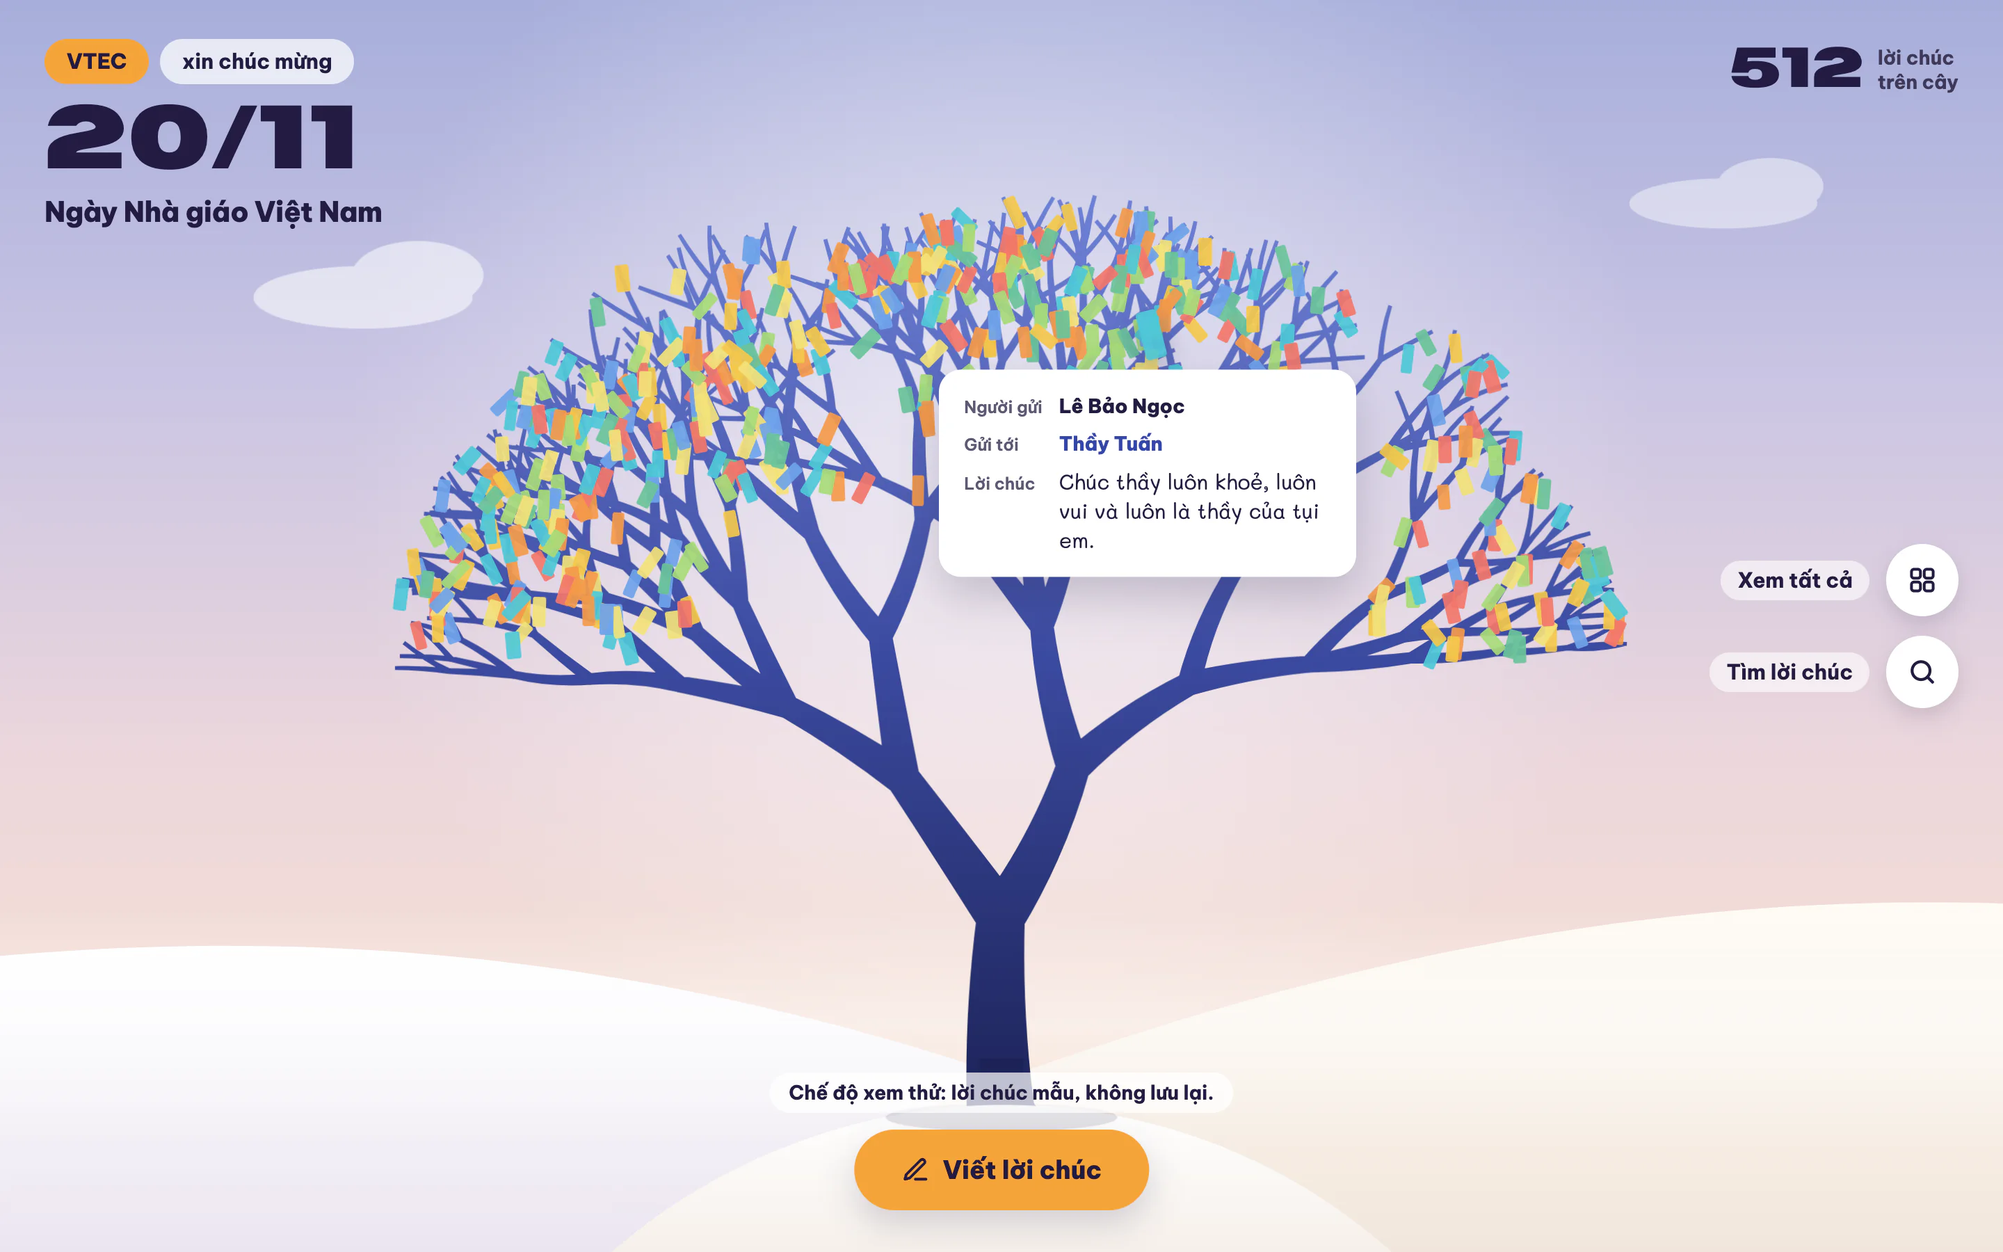
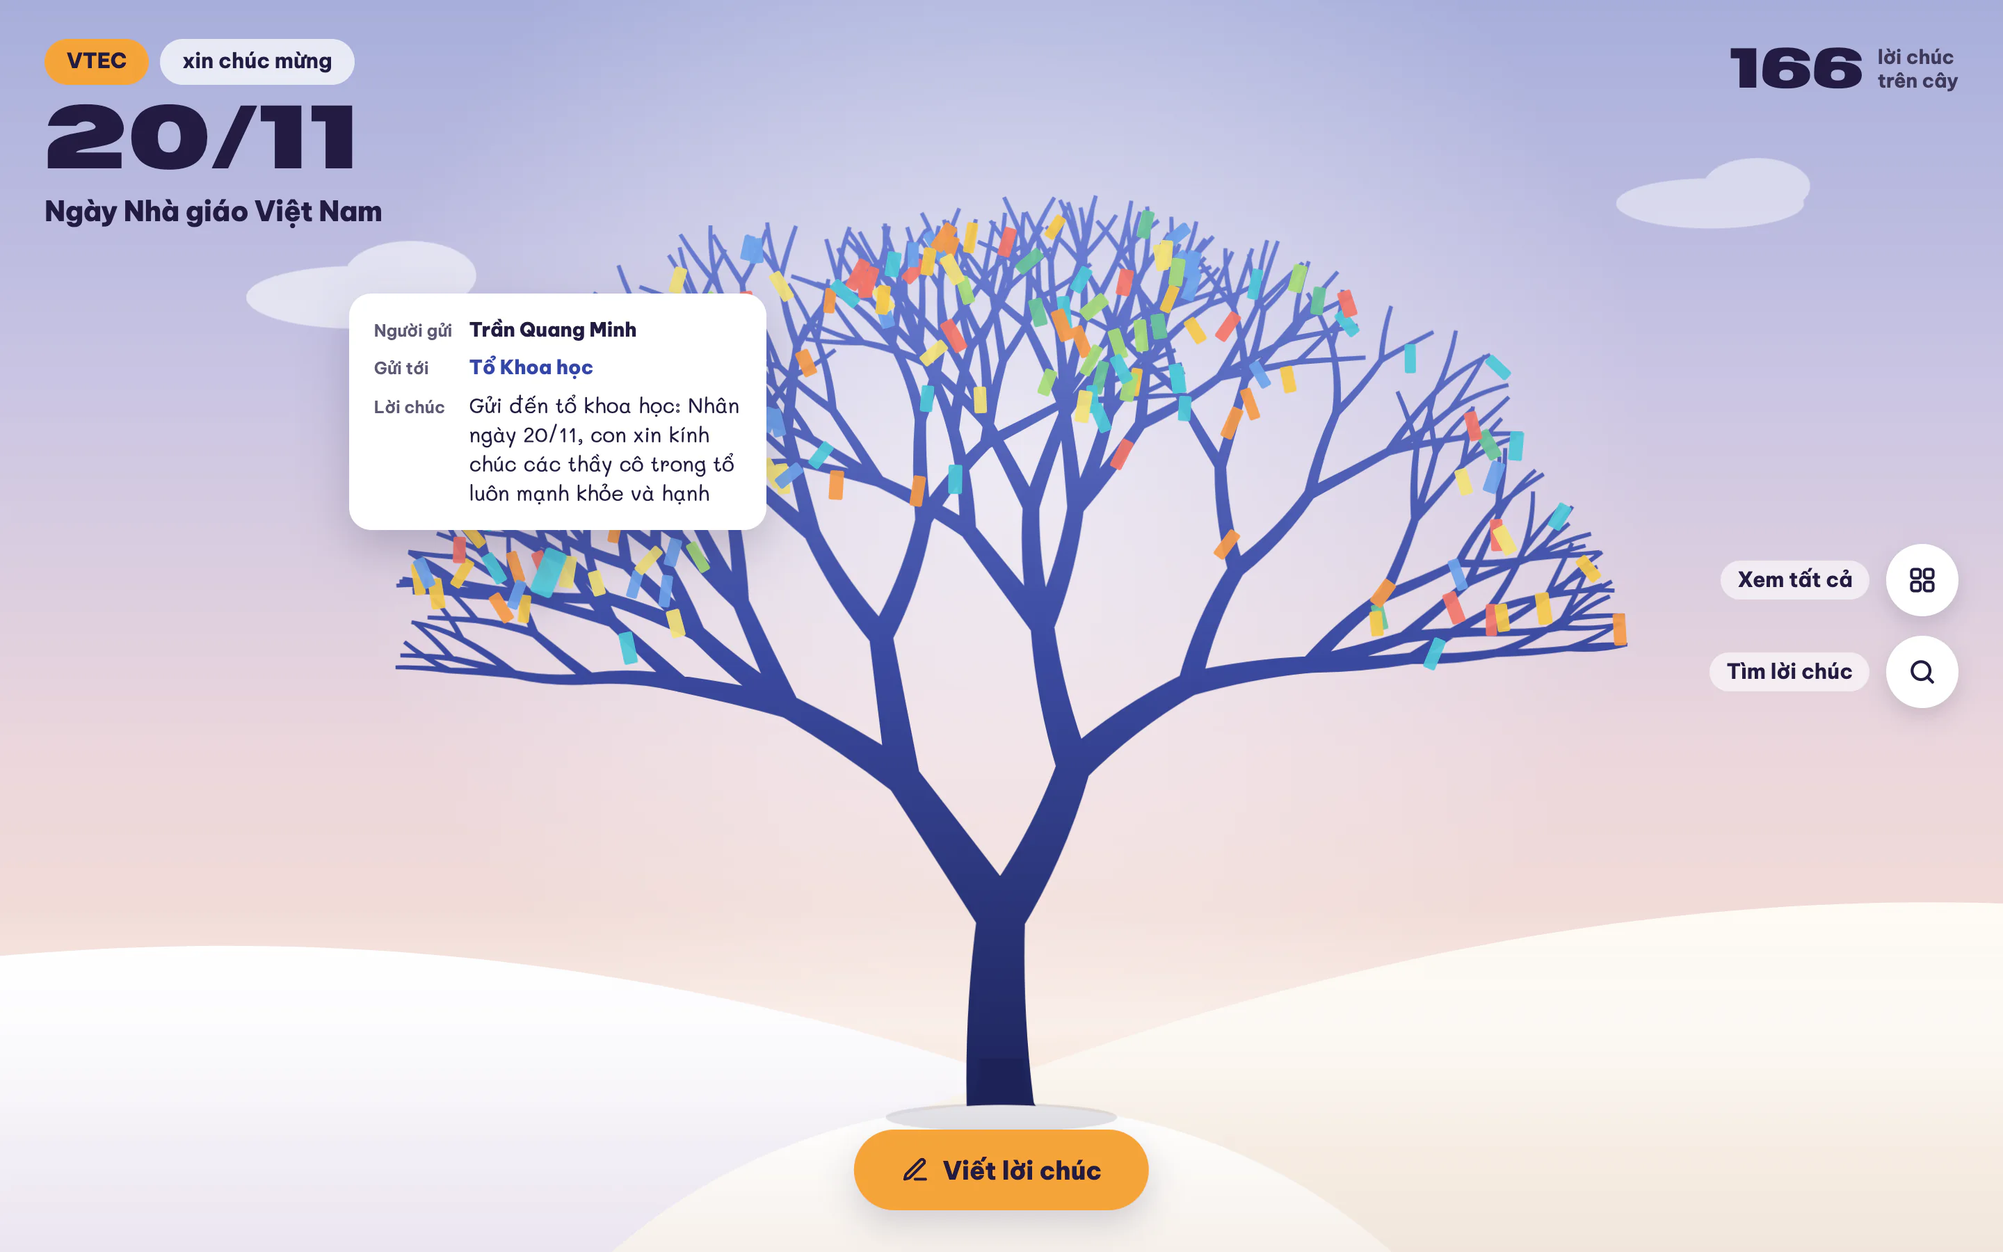
Show the live wishing tree at vtec.codes and tell how Lunch started

diff --git a/works/teacher-day/index.html b/works/teacher-day/index.html
@@ -55,16 +55,16 @@
     <p class="project-tagline intro" style="--delay: 0.35s">A wishing tree for Vietnamese Teachers' Day: students write kind words to their teachers and hang them on the tree.</p>
     <div class="intro" style="--delay: 0.45s"><ul class="tags"><li>Vue</li><li>Firebase</li><li>GSAP</li></ul></div>
   </header>
-  <figure class="project-cover"><div class="cover cover--browser cover--lilac" role="img" aria-label="The Teacher Day wishing tree with notes hanging from its branches" style="view-transition-name: cover-teacher-day">
-  <div class="browser" style="--bar: #a8afdb; --page-w: 1356" data-depth="0.5">
+  <figure class="project-cover"><div class="cover cover--browser cover--lilac" role="img" aria-label="The Teacher Day wishing tree with 166 wishes hanging from its branches" style="view-transition-name: cover-teacher-day">
+  <div class="browser" style="--bar: #a7aedb; --page-w: 1440" data-depth="0.5">
     <div class="safari-bar" aria-hidden="true">
       <span class="traffic"><i></i><i></i><i></i></span>
       <span class="sf sf--sidebar"><svg viewBox="0 0 20 16"><rect x="1" y="1.5" width="18" height="13" rx="3"/><path d="M7.5 1.5v13M3.4 4.6h2M3.4 7h2M3.4 9.4h2"/></svg></span>
       <span class="sf sf--nav"><svg viewBox="0 0 12 16"><path d="M8.5 2.5 3 8l5.5 5.5"/></svg><svg viewBox="0 0 12 16"><path d="M3.5 2.5 9 8l-5.5 5.5"/></svg></span>
-      <span class="safari-url"><span>vtec-teacher-day.web.app</span><svg viewBox="0 0 16 16"><path d="M13 8a5 5 0 1 1-1.6-3.7"/><path d="M11.8 1.6v3h-3"/></svg></span>
+      <span class="safari-url"><span>vtec.codes</span><svg viewBox="0 0 16 16"><path d="M13 8a5 5 0 1 1-1.6-3.7"/><path d="M11.8 1.6v3h-3"/></svg></span>
       <span class="sf sf--right"><svg viewBox="0 0 16 18"><path d="M8 11V1.8M4.8 4.8 8 1.6l3.2 3.2"/><path d="M5.2 7.5H3.8a1.8 1.8 0 0 0-1.8 1.8v5.4a1.8 1.8 0 0 0 1.8 1.8h8.4a1.8 1.8 0 0 0 1.8-1.8V9.3a1.8 1.8 0 0 0-1.8-1.8h-1.4"/></svg><svg viewBox="0 0 16 16"><path d="M8 2v12M2 8h12"/></svg><svg viewBox="0 0 18 16"><rect x="1.5" y="4.5" width="11" height="10" rx="2.2"/><path d="M5 2.2h8.3a2.2 2.2 0 0 1 2.2 2.2v7.4"/></svg></span>
     </div>
-    <img src="/assets/img/projects/teacher-day.webp" alt="" width="1356" height="845" fetchpriority="high" decoding="async">
+    <img src="/assets/img/projects/teacher-day.webp" alt="" width="1440" height="900" fetchpriority="high" decoding="async">
   </div>
 </div></figure>
   <div class="project-body">
@@ -76,7 +76,7 @@
         <div><dt>Status</dt><dd>Live</dd></div>
       </dl>
       <div class="project-links">
-        <a class="btn btn--orange" href="https://vtec-teacher-day.web.app" target="_blank" rel="noopener" data-magnetic>Open the wishing tree <svg class="arrow arrow--ext" viewBox="0 0 16 16" aria-hidden="true"><path d="M5 11 11 5M6 5h5v5" fill="none" stroke="currentColor" stroke-width="1.6" stroke-linecap="round" stroke-linejoin="round"/></svg></a>
+        <a class="btn btn--orange" href="https://vtec.codes" target="_blank" rel="noopener" data-magnetic>Open the wishing tree <svg class="arrow arrow--ext" viewBox="0 0 16 16" aria-hidden="true"><path d="M5 11 11 5M6 5h5v5" fill="none" stroke="currentColor" stroke-width="1.6" stroke-linecap="round" stroke-linejoin="round"/></svg></a>
         <a class="btn btn--ghost" href="https://github.com/KernelxD/Teacher-Day" target="_blank" rel="noopener" data-magnetic>View on GitHub <svg class="arrow arrow--ext" viewBox="0 0 16 16" aria-hidden="true"><path d="M5 11 11 5M6 5h5v5" fill="none" stroke="currentColor" stroke-width="1.6" stroke-linecap="round" stroke-linejoin="round"/></svg></a>
       </div>
     </aside>
@@ -90,7 +90,7 @@
   <section class="screens" aria-labelledby="screens-title">
   <div class="screens-head">
     <h2 id="screens-title" class="section-title" data-split>See it in action</h2>
-    <p class="section-lede" data-reveal>The tree shots use the site's demo mode, which fills it with 512 sample wishes.</p>
+    <p class="section-lede" data-reveal>Taken from the live tree on Teachers' Day, with the wishes students actually wrote.</p>
   </div>
   <ol class="screens-grid" data-stagger>
     <li class="screen screen--full">
@@ -101,10 +101,10 @@
       <span class="traffic"><i></i><i></i><i></i></span>
       <span class="sf sf--sidebar"><svg viewBox="0 0 20 16"><rect x="1" y="1.5" width="18" height="13" rx="3"/><path d="M7.5 1.5v13M3.4 4.6h2M3.4 7h2M3.4 9.4h2"/></svg></span>
       <span class="sf sf--nav"><svg viewBox="0 0 12 16"><path d="M8.5 2.5 3 8l5.5 5.5"/></svg><svg viewBox="0 0 12 16"><path d="M3.5 2.5 9 8l-5.5 5.5"/></svg></span>
-      <span class="safari-url"><span>vtec-teacher-day.web.app</span><svg viewBox="0 0 16 16"><path d="M13 8a5 5 0 1 1-1.6-3.7"/><path d="M11.8 1.6v3h-3"/></svg></span>
+      <span class="safari-url"><span>vtec.codes</span><svg viewBox="0 0 16 16"><path d="M13 8a5 5 0 1 1-1.6-3.7"/><path d="M11.8 1.6v3h-3"/></svg></span>
       <span class="sf sf--right"><svg viewBox="0 0 16 18"><path d="M8 11V1.8M4.8 4.8 8 1.6l3.2 3.2"/><path d="M5.2 7.5H3.8a1.8 1.8 0 0 0-1.8 1.8v5.4a1.8 1.8 0 0 0 1.8 1.8h8.4a1.8 1.8 0 0 0 1.8-1.8V9.3a1.8 1.8 0 0 0-1.8-1.8h-1.4"/></svg><svg viewBox="0 0 16 16"><path d="M8 2v12M2 8h12"/></svg><svg viewBox="0 0 18 16"><rect x="1.5" y="4.5" width="11" height="10" rx="2.2"/><path d="M5 2.2h8.3a2.2 2.2 0 0 1 2.2 2.2v7.4"/></svg></span>
     </div>
[2 lines of base64/hex data omitted]
       </div>
     </div>
         <figcaption><b>01</b> Open a note to read the whole wish, then flip through the rest.</figcaption>
@@ -118,10 +118,10 @@
       <span class="traffic"><i></i><i></i><i></i></span>
       <span class="sf sf--sidebar"><svg viewBox="0 0 20 16"><rect x="1" y="1.5" width="18" height="13" rx="3"/><path d="M7.5 1.5v13M3.4 4.6h2M3.4 7h2M3.4 9.4h2"/></svg></span>
       <span class="sf sf--nav"><svg viewBox="0 0 12 16"><path d="M8.5 2.5 3 8l5.5 5.5"/></svg><svg viewBox="0 0 12 16"><path d="M3.5 2.5 9 8l-5.5 5.5"/></svg></span>
-      <span class="safari-url"><span>vtec-teacher-day.web.app</span><svg viewBox="0 0 16 16"><path d="M13 8a5 5 0 1 1-1.6-3.7"/><path d="M11.8 1.6v3h-3"/></svg></span>
+      <span class="safari-url"><span>vtec.codes</span><svg viewBox="0 0 16 16"><path d="M13 8a5 5 0 1 1-1.6-3.7"/><path d="M11.8 1.6v3h-3"/></svg></span>
       <span class="sf sf--right"><svg viewBox="0 0 16 18"><path d="M8 11V1.8M4.8 4.8 8 1.6l3.2 3.2"/><path d="M5.2 7.5H3.8a1.8 1.8 0 0 0-1.8 1.8v5.4a1.8 1.8 0 0 0 1.8 1.8h8.4a1.8 1.8 0 0 0 1.8-1.8V9.3a1.8 1.8 0 0 0-1.8-1.8h-1.4"/></svg><svg viewBox="0 0 16 16"><path d="M8 2v12M2 8h12"/></svg><svg viewBox="0 0 18 16"><rect x="1.5" y="4.5" width="11" height="10" rx="2.2"/><path d="M5 2.2h8.3a2.2 2.2 0 0 1 2.2 2.2v7.4"/></svg></span>
     </div>
[2 lines of base64/hex data omitted]
       </div>
     </div>
         <figcaption><b>02</b> Hover a note to peek at who wrote it and who it's for.</figcaption>
@@ -135,13 +135,13 @@
       <span class="traffic"><i></i><i></i><i></i></span>
       <span class="sf sf--sidebar"><svg viewBox="0 0 20 16"><rect x="1" y="1.5" width="18" height="13" rx="3"/><path d="M7.5 1.5v13M3.4 4.6h2M3.4 7h2M3.4 9.4h2"/></svg></span>
       <span class="sf sf--nav"><svg viewBox="0 0 12 16"><path d="M8.5 2.5 3 8l5.5 5.5"/></svg><svg viewBox="0 0 12 16"><path d="M3.5 2.5 9 8l-5.5 5.5"/></svg></span>
-      <span class="safari-url"><span>vtec-teacher-day.web.app</span><svg viewBox="0 0 16 16"><path d="M13 8a5 5 0 1 1-1.6-3.7"/><path d="M11.8 1.6v3h-3"/></svg></span>
+      <span class="safari-url"><span>vtec.codes</span><svg viewBox="0 0 16 16"><path d="M13 8a5 5 0 1 1-1.6-3.7"/><path d="M11.8 1.6v3h-3"/></svg></span>
       <span class="sf sf--right"><svg viewBox="0 0 16 18"><path d="M8 11V1.8M4.8 4.8 8 1.6l3.2 3.2"/><path d="M5.2 7.5H3.8a1.8 1.8 0 0 0-1.8 1.8v5.4a1.8 1.8 0 0 0 1.8 1.8h8.4a1.8 1.8 0 0 0 1.8-1.8V9.3a1.8 1.8 0 0 0-1.8-1.8h-1.4"/></svg><svg viewBox="0 0 16 16"><path d="M8 2v12M2 8h12"/></svg><svg viewBox="0 0 18 16"><rect x="1.5" y="4.5" width="11" height="10" rx="2.2"/><path d="M5 2.2h8.3a2.2 2.2 0 0 1 2.2 2.2v7.4"/></svg></span>
     </div>
[2 lines of base64/hex data omitted]
       </div>
     </div>
-        <figcaption><b>03</b> Write a wish and hang it on the tree.</figcaption>
+        <figcaption><b>03</b> Write a wish, pick your campus, and hang it on the tree.</figcaption>
       </figure>
     </li>
   </ol>
@@ -155,9 +155,9 @@
         <p>Launched for the day students traditionally thank their teachers.</p>
       </li>
       <li class="highlight">
-        <span class="hl-num" data-count="1">1</span>
-        <span class="hl-label">tree for the whole school</span>
-        <p>Write a wish, browse every note, or search for one.</p>
+        <span class="hl-num" data-count="160+">160+</span>
+        <span class="hl-label">wishes collected</span>
+        <p>Kind words from students to their teachers, each one a note on the tree.</p>
       </li>
     </ul>
   </section>

diff --git a/works/lunch/index.html b/works/lunch/index.html
@@ -4,12 +4,12 @@
 <meta charset="utf-8">
 <meta name="viewport" content="width=device-width, initial-scale=1">
 <title>Lunch | Nguyen Truong Son</title>
-<meta name="description" content="lunch.truongson.me: the school lunch menu on one quiet page, today's meals and the next week at a glance, with calories for every dish.">
+<meta name="description" content="lunch.truongson.me: my school's lunch menu on one quiet page, today's meals and the next week at a glance, with calories for every dish.">
 <link rel="canonical" href="https://truongson.me/works/lunch/">
 <meta property="og:type" content="website">
 <meta property="og:site_name" content="Nguyen Truong Son">
 <meta property="og:title" content="Lunch | Nguyen Truong Son">
-<meta property="og:description" content="lunch.truongson.me: the school lunch menu on one quiet page, today's meals and the next week at a glance, with calories for every dish.">
+<meta property="og:description" content="lunch.truongson.me: my school's lunch menu on one quiet page, today's meals and the next week at a glance, with calories for every dish.">
 <meta property="og:url" content="https://truongson.me/works/lunch/">
 <meta property="og:image" content="https://truongson.me/assets/img/og-card.jpg">
 <meta name="twitter:card" content="summary_large_image">
@@ -52,7 +52,7 @@
     <a class="back-link" href="/works/"><span aria-hidden="true">←</span> All works</a>
     <p class="eyebrow intro" style="--delay: 0.05s"><span>2026</span><span>Web app</span></p>
     <h1 class="project-title intro-title"><span class="w" style="--i: 0">Lunch</span></h1>
-    <p class="project-tagline intro" style="--delay: 0.35s">The school lunch menu on one quiet page: today's meals and the week ahead at a glance, with calories for every dish.</p>
+    <p class="project-tagline intro" style="--delay: 0.35s">My school's lunch menu on one quiet page: today's meals and the week ahead at a glance, with calories for every dish.</p>
     <div class="intro" style="--delay: 0.45s"><ul class="tags"><li>Next.js</li><li>TypeScript</li></ul></div>
   </header>
   <figure class="project-cover"><div class="cover cover--browser cover--paper" role="img" aria-label="The Lunch menu site showing Friday's meals with calories" style="view-transition-name: cover-lunch">
@@ -81,7 +81,8 @@
     </aside>
     <div class="project-overview">
       <h2 class="kicker" data-reveal>Overview</h2>
-      <p data-reveal>Lunch takes the school's weekly menu and puts it on one fast, desktop-friendly page: weekdays through the same day next week, every dish with its calories, and today highlighted.</p>
+      <p data-reveal>Lunch takes my school's weekly menu and puts it on one fast, desktop-friendly page: weekdays through the same day next week, every dish with its calories, and today highlighted.</p>
+      <p data-reveal>The menu only lives in a phone app, but we weren't allowed to use our phones at school, so I built this for my friends to open on their laptops instead. At first I only told two people about it; now it peaks at around 100 visits a day, which makes me really happy. It taught me how rewarding it is to build software that solves a small problem from real life.</p>
       <p data-reveal>A server endpoint calls one fixed upstream menu endpoint using credentials kept in protected environment variables, sanitizes the response and returns only the menu, so the student code and token never reach visitors. Without credentials, the site falls back to a checked-in sample menu.</p>
       <p data-reveal>It keeps itself current each morning and counts how many hungry visitors stopped by.</p>
     </div>

diff --git a/index.html b/index.html
@@ -281,7 +281,7 @@
     <div class="card-body">
       <p class="card-kicker"><span>2026</span><span>Web app</span></p>
       <h3 class="card-title">Lunch <span class="card-arrow"><svg class="arrow" viewBox="0 0 16 16" aria-hidden="true"><path d="M3 8h10M9 4l4 4-4 4" fill="none" stroke="currentColor" stroke-width="1.6" stroke-linecap="round" stroke-linejoin="round"/></svg></span></h3>
-      <p class="card-text">lunch.truongson.me: the school lunch menu on one quiet page, today's meals and the next week at a glance, with calories for every dish.</p>
+      <p class="card-text">lunch.truongson.me: my school's lunch menu on one quiet page, today's meals and the next week at a glance, with calories for every dish.</p>
       <ul class="tags"><li>Next.js</li><li>TypeScript</li></ul>
     </div>
   </a>
@@ -298,16 +298,16 @@
           <span class="bench-desc">Web app for VTEC</span>
           <span class="bench-year">2026</span>
           <span class="bench-arrow"><svg class="arrow" viewBox="0 0 16 16" aria-hidden="true"><path d="M3 8h10M9 4l4 4-4 4" fill="none" stroke="currentColor" stroke-width="1.6" stroke-linecap="round" stroke-linejoin="round"/></svg></span>
-          <div class="bench-preview" aria-hidden="true"><div class="cover cover--browser cover--lilac" role="img" aria-label="The Teacher Day wishing tree with notes hanging from its branches">
-  <div class="browser" style="--bar: #a8afdb; --page-w: 1356" data-depth="0.5">
+          <div class="bench-preview" aria-hidden="true"><div class="cover cover--browser cover--lilac" role="img" aria-label="The Teacher Day wishing tree with 166 wishes hanging from its branches">
+  <div class="browser" style="--bar: #a7aedb; --page-w: 1440" data-depth="0.5">
     <div class="safari-bar" aria-hidden="true">
       <span class="traffic"><i></i><i></i><i></i></span>
       <span class="sf sf--sidebar"><svg viewBox="0 0 20 16"><rect x="1" y="1.5" width="18" height="13" rx="3"/><path d="M7.5 1.5v13M3.4 4.6h2M3.4 7h2M3.4 9.4h2"/></svg></span>
       <span class="sf sf--nav"><svg viewBox="0 0 12 16"><path d="M8.5 2.5 3 8l5.5 5.5"/></svg><svg viewBox="0 0 12 16"><path d="M3.5 2.5 9 8l-5.5 5.5"/></svg></span>
-      <span class="safari-url"><span>vtec-teacher-day.web.app</span><svg viewBox="0 0 16 16"><path d="M13 8a5 5 0 1 1-1.6-3.7"/><path d="M11.8 1.6v3h-3"/></svg></span>
+      <span class="safari-url"><span>vtec.codes</span><svg viewBox="0 0 16 16"><path d="M13 8a5 5 0 1 1-1.6-3.7"/><path d="M11.8 1.6v3h-3"/></svg></span>
       <span class="sf sf--right"><svg viewBox="0 0 16 18"><path d="M8 11V1.8M4.8 4.8 8 1.6l3.2 3.2"/><path d="M5.2 7.5H3.8a1.8 1.8 0 0 0-1.8 1.8v5.4a1.8 1.8 0 0 0 1.8 1.8h8.4a1.8 1.8 0 0 0 1.8-1.8V9.3a1.8 1.8 0 0 0-1.8-1.8h-1.4"/></svg><svg viewBox="0 0 16 16"><path d="M8 2v12M2 8h12"/></svg><svg viewBox="0 0 18 16"><rect x="1.5" y="4.5" width="11" height="10" rx="2.2"/><path d="M5 2.2h8.3a2.2 2.2 0 0 1 2.2 2.2v7.4"/></svg></span>
     </div>
-    <img src="/assets/img/projects/teacher-day.webp" alt="" width="1356" height="845" loading="lazy" decoding="async">
+    <img src="/assets/img/projects/teacher-day.webp" alt="" width="1440" height="900" loading="lazy" decoding="async">
   </div>
 </div></div>
         </a>

diff --git a/works/index.html b/works/index.html
@@ -124,23 +124,23 @@
     <div class="card-body">
       <p class="card-kicker"><span>2026</span><span>Web app</span></p>
       <h2 class="card-title">Lunch <span class="card-arrow"><svg class="arrow" viewBox="0 0 16 16" aria-hidden="true"><path d="M3 8h10M9 4l4 4-4 4" fill="none" stroke="currentColor" stroke-width="1.6" stroke-linecap="round" stroke-linejoin="round"/></svg></span></h2>
-      <p class="card-text">lunch.truongson.me: the school lunch menu on one quiet page, today's meals and the next week at a glance, with calories for every dish.</p>
+      <p class="card-text">lunch.truongson.me: my school's lunch menu on one quiet page, today's meals and the next week at a glance, with calories for every dish.</p>
       <ul class="tags"><li>Next.js</li><li>TypeScript</li></ul>
     </div>
   </a>
 </article>
     <article class="card" data-categories="Web" data-reveal-card>
   <a class="card-link" href="/works/teacher-day/" data-cursor="View">
-    <div class="card-cover"><div class="cover cover--browser cover--lilac" role="img" aria-label="The Teacher Day wishing tree with notes hanging from its branches" style="view-transition-name: cover-teacher-day">
-  <div class="browser" style="--bar: #a8afdb; --page-w: 1356" data-depth="0.5">
+    <div class="card-cover"><div class="cover cover--browser cover--lilac" role="img" aria-label="The Teacher Day wishing tree with 166 wishes hanging from its branches" style="view-transition-name: cover-teacher-day">
+  <div class="browser" style="--bar: #a7aedb; --page-w: 1440" data-depth="0.5">
     <div class="safari-bar" aria-hidden="true">
       <span class="traffic"><i></i><i></i><i></i></span>
       <span class="sf sf--sidebar"><svg viewBox="0 0 20 16"><rect x="1" y="1.5" width="18" height="13" rx="3"/><path d="M7.5 1.5v13M3.4 4.6h2M3.4 7h2M3.4 9.4h2"/></svg></span>
       <span class="sf sf--nav"><svg viewBox="0 0 12 16"><path d="M8.5 2.5 3 8l5.5 5.5"/></svg><svg viewBox="0 0 12 16"><path d="M3.5 2.5 9 8l-5.5 5.5"/></svg></span>
-      <span class="safari-url"><span>vtec-teacher-day.web.app</span><svg viewBox="0 0 16 16"><path d="M13 8a5 5 0 1 1-1.6-3.7"/><path d="M11.8 1.6v3h-3"/></svg></span>
+      <span class="safari-url"><span>vtec.codes</span><svg viewBox="0 0 16 16"><path d="M13 8a5 5 0 1 1-1.6-3.7"/><path d="M11.8 1.6v3h-3"/></svg></span>
       <span class="sf sf--right"><svg viewBox="0 0 16 18"><path d="M8 11V1.8M4.8 4.8 8 1.6l3.2 3.2"/><path d="M5.2 7.5H3.8a1.8 1.8 0 0 0-1.8 1.8v5.4a1.8 1.8 0 0 0 1.8 1.8h8.4a1.8 1.8 0 0 0 1.8-1.8V9.3a1.8 1.8 0 0 0-1.8-1.8h-1.4"/></svg><svg viewBox="0 0 16 16"><path d="M8 2v12M2 8h12"/></svg><svg viewBox="0 0 18 16"><rect x="1.5" y="4.5" width="11" height="10" rx="2.2"/><path d="M5 2.2h8.3a2.2 2.2 0 0 1 2.2 2.2v7.4"/></svg></span>
     </div>
-    <img src="/assets/img/projects/teacher-day.webp" alt="" width="1356" height="845" loading="lazy" decoding="async">
+    <img src="/assets/img/projects/teacher-day.webp" alt="" width="1440" height="900" loading="lazy" decoding="async">
   </div>
 </div></div>
     <div class="card-body">
